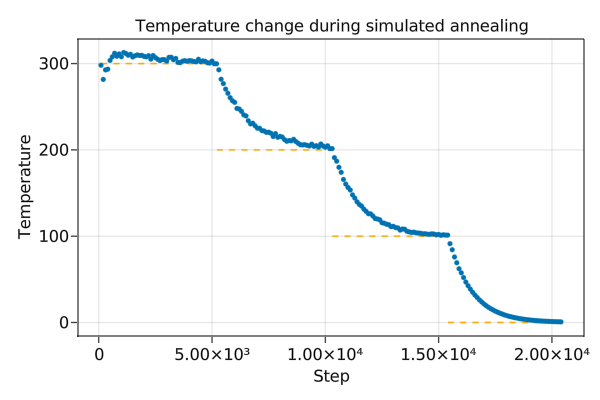
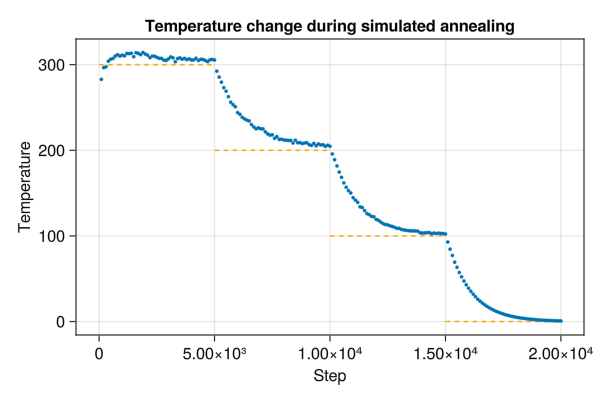
change run_loggers! arguments, allow :skipzero

diff --git a/docs/src/docs.md b/docs/src/docs.md
@@ -993,7 +993,7 @@ function Molly.simulate!(sys,
         remove_CM_motion!(sys)
 
         # Apply the loggers like this
-        run_loggers && run_loggers!(sys, neighbors, step_n; n_threads=n_threads)
+        run_loggers!(sys, neighbors, step_n, run_loggers; n_threads=n_threads)
 
         # Find new neighbors like this
         neighbors = find_neighbors(sys, sys.neighbor_finder, neighbors, step_n, recompute_forces;
@@ -1161,6 +1161,14 @@ loggers = (mylogger=MyLogger(10, []),) # Don't forget the trailing comma!
 ```
 In addition to being run at the end of each step, loggers are run before the first step, i.e. at step 0.
 This means that a logger that records a value every step for a simulation with 100 steps will end up with 101 values.
+Running loggers before the first step can be disabled by giving `run_loggers=:skipzero` as a keyword argument to [`simulate!`](@ref), which can be useful when splitting up simulations into multiple [`simulate!`](@ref) calls.
+For example, this runs the loggers 301 times:
+```julia
+simulate!(sys, simulator, 100) # Default of run_loggers=true
+simulate!(sys, simulator, 100; run_loggers=:skipzero)
+simulate!(sys, simulator, 100; run_loggers=:skipzero)
+```
+Running loggers can be disabled entirely with `run_loggers=false`.
 Loggers are currently ignored for the purposes of taking gradients, so if a logger is used in the gradient calculation the gradients will appear to be nothing.
 
 Many times, a logger will just record an observation to an `Array` containing a record of past observations.

diff --git a/README.md b/README.md
@@ -19,7 +19,7 @@ Implemented features include:
 - Read in OpenMM force field files and coordinate files supported by [Chemfiles.jl](https://github.com/chemfiles/Chemfiles.jl). There is also experimental support for Gromacs files.
 - Verlet, velocity Verlet, Störmer-Verlet, flexible Langevin and Nosé-Hoover integrators.
 - Andersen, Berendsen and velocity rescaling thermostats.
-- Monte Carlo barostat.
+- Monte Carlo barostat and variants.
 - Steepest descent energy minimization.
 - Replica exchange molecular dynamics.
 - Monte Carlo simulation.

diff --git a/docs/src/examples.md b/docs/src/examples.md
@@ -39,7 +39,7 @@ for temp in temps
         temperature=temp,
         friction=1.0u"ps^-1",
     )
-    simulate!(sys, simulator, 5_000)
+    simulate!(sys, simulator, 5_000; run_loggers=:skipzero)
 end
 
 f = Figure(resolution=(600, 400))
@@ -52,7 +52,7 @@ ax = Axis(
 for (i, temp) in enumerate(temps)
     lines!(
         ax,
-        [5100 * i - 5000, 5100 * i],
+        [5000 * i - 5000, 5000 * i],
         [ustrip(temp), ustrip(temp)],
         linestyle="--",
         color=:orange,
